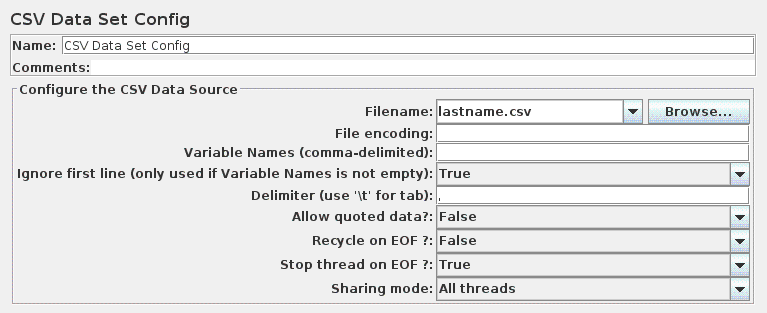
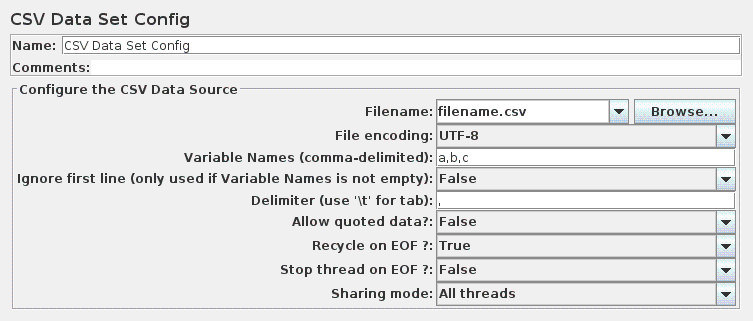
BUG61527 - CSV data set config : Add a list for main file encoding values for File encoding attribute
git-svn-id: https://svn.apache.org/repos/asf/jmeter/trunk@1808595 13f79535-47bb-0310-9956-ffa450edef68

Changed region(s): [[0.0, 0.2013, 0.9774, 0.9776], [0.0, 0.0288, 1.0, 0.1725]]

diff --git a/src/components/org/apache/jmeter/config/CSVDataSetBeanInfo.java b/src/components/org/apache/jmeter/config/CSVDataSetBeanInfo.java
@@ -23,6 +23,8 @@ import java.beans.PropertyDescriptor;
 import org.apache.jmeter.testbeans.BeanInfoSupport;
 import org.apache.jmeter.testbeans.gui.FileEditor;
 import org.apache.jmeter.testbeans.gui.TypeEditor;
+import org.apache.jmeter.util.JMeterUtils;
+import org.apache.jorphan.util.JOrphanUtils;
 
 public class CSVDataSetBeanInfo extends BeanInfoSupport {
 
@@ -64,10 +66,10 @@ public class CSVDataSetBeanInfo extends BeanInfoSupport {
         p.setValue(NOT_EXPRESSION, Boolean.TRUE);
         p.setPropertyEditorClass(FileEditor.class);
 
-        p = property(FILE_ENCODING);
+        p = property(FILE_ENCODING, TypeEditor.ComboStringEditor);
         p.setValue(NOT_UNDEFINED, Boolean.TRUE);
         p.setValue(DEFAULT, "");        //$NON-NLS-1$
-        p.setValue(NOT_EXPRESSION, Boolean.TRUE);
+        p.setValue(TAGS, getListFileEncoding());
 
         p = property(VARIABLE_NAMES);
         p.setValue(NOT_UNDEFINED, Boolean.TRUE);
@@ -123,5 +125,14 @@ public class CSVDataSetBeanInfo extends BeanInfoSupport {
         String[] copy = new String[SHARE_TAGS.length];
         System.arraycopy(SHARE_TAGS, 0, copy, 0, SHARE_TAGS.length);
         return copy;
+    }
+
+    /**
+     * Get the mains file encoding
+     * list from https://docs.oracle.com/javase/8/docs/technotes/guides/intl/encoding.doc.html
+     * @return a String[] with the list of file encoding
+     */
+    private String[] getListFileEncoding() {
+        return JOrphanUtils.split(JMeterUtils.getPropDefault("csvdataset.file.encoding", ""), "|"); //$NON-NLS-1$
     }
 }
